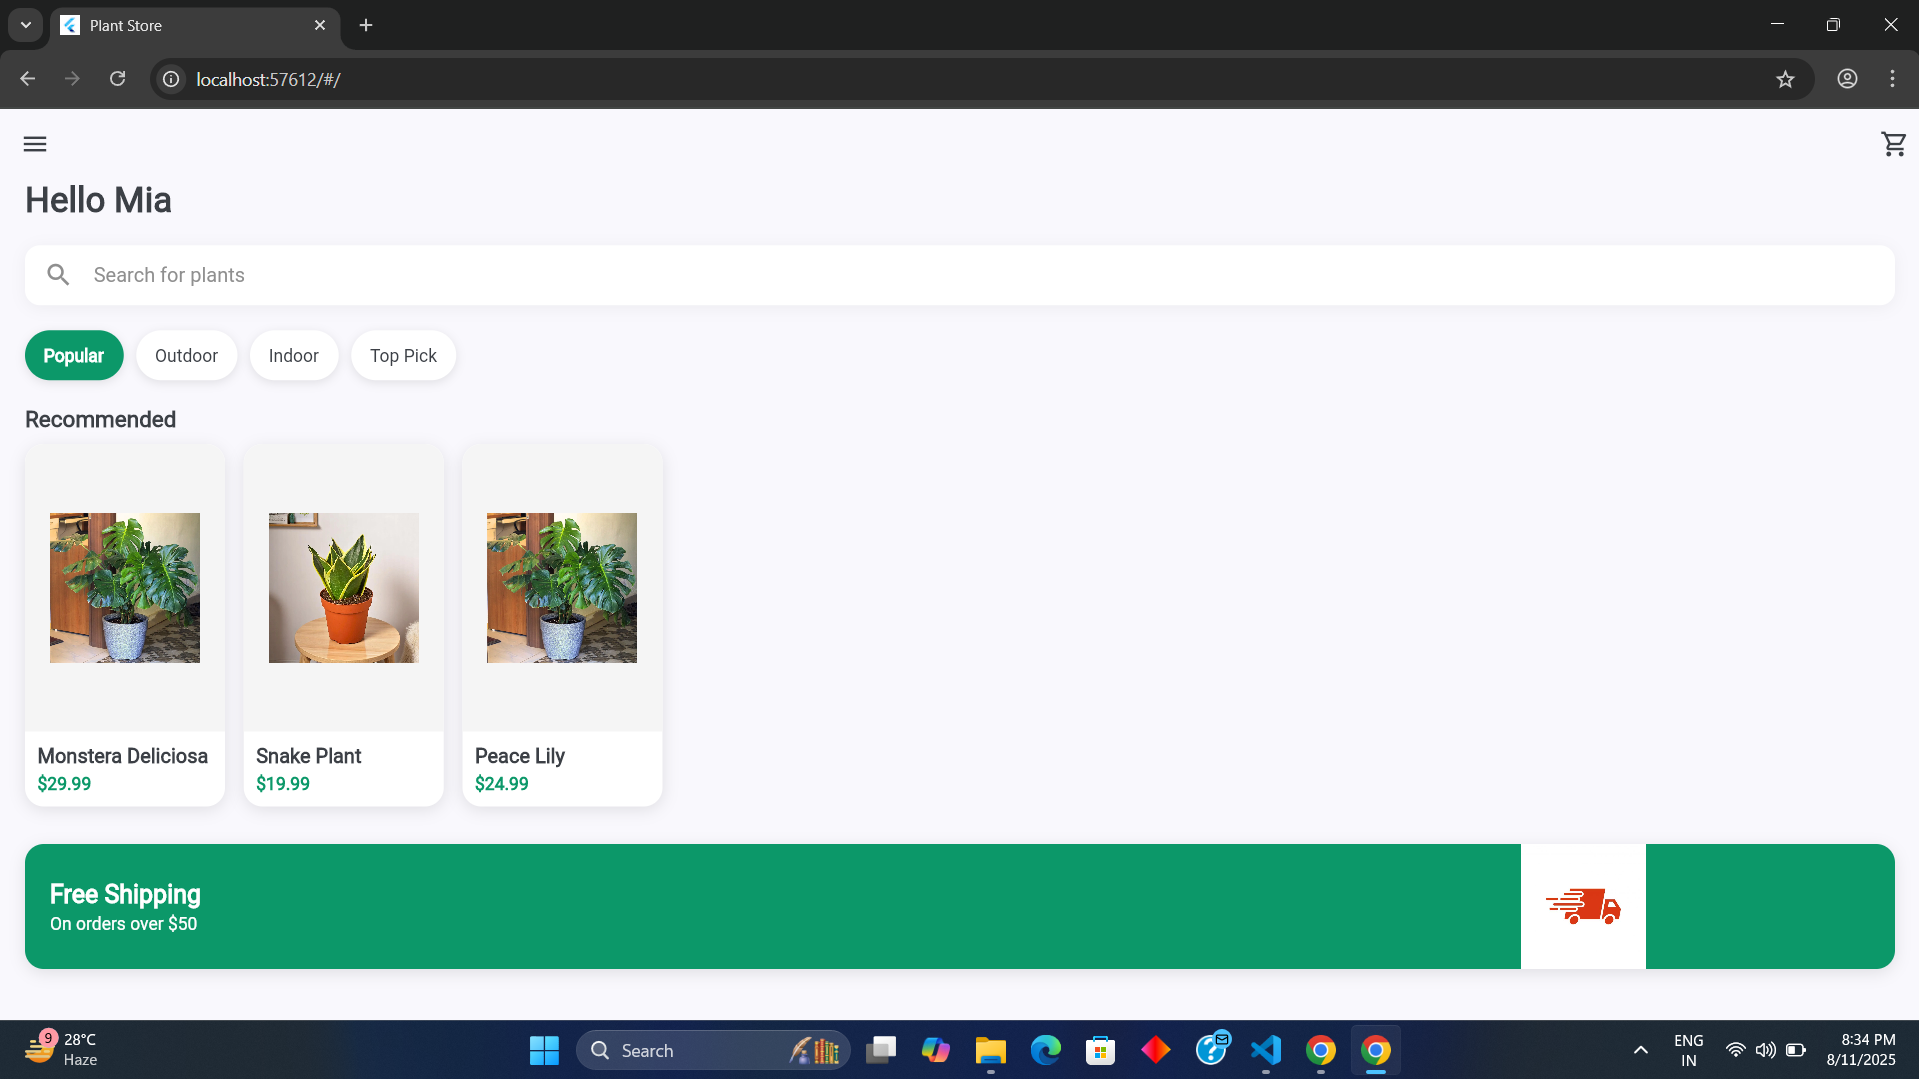
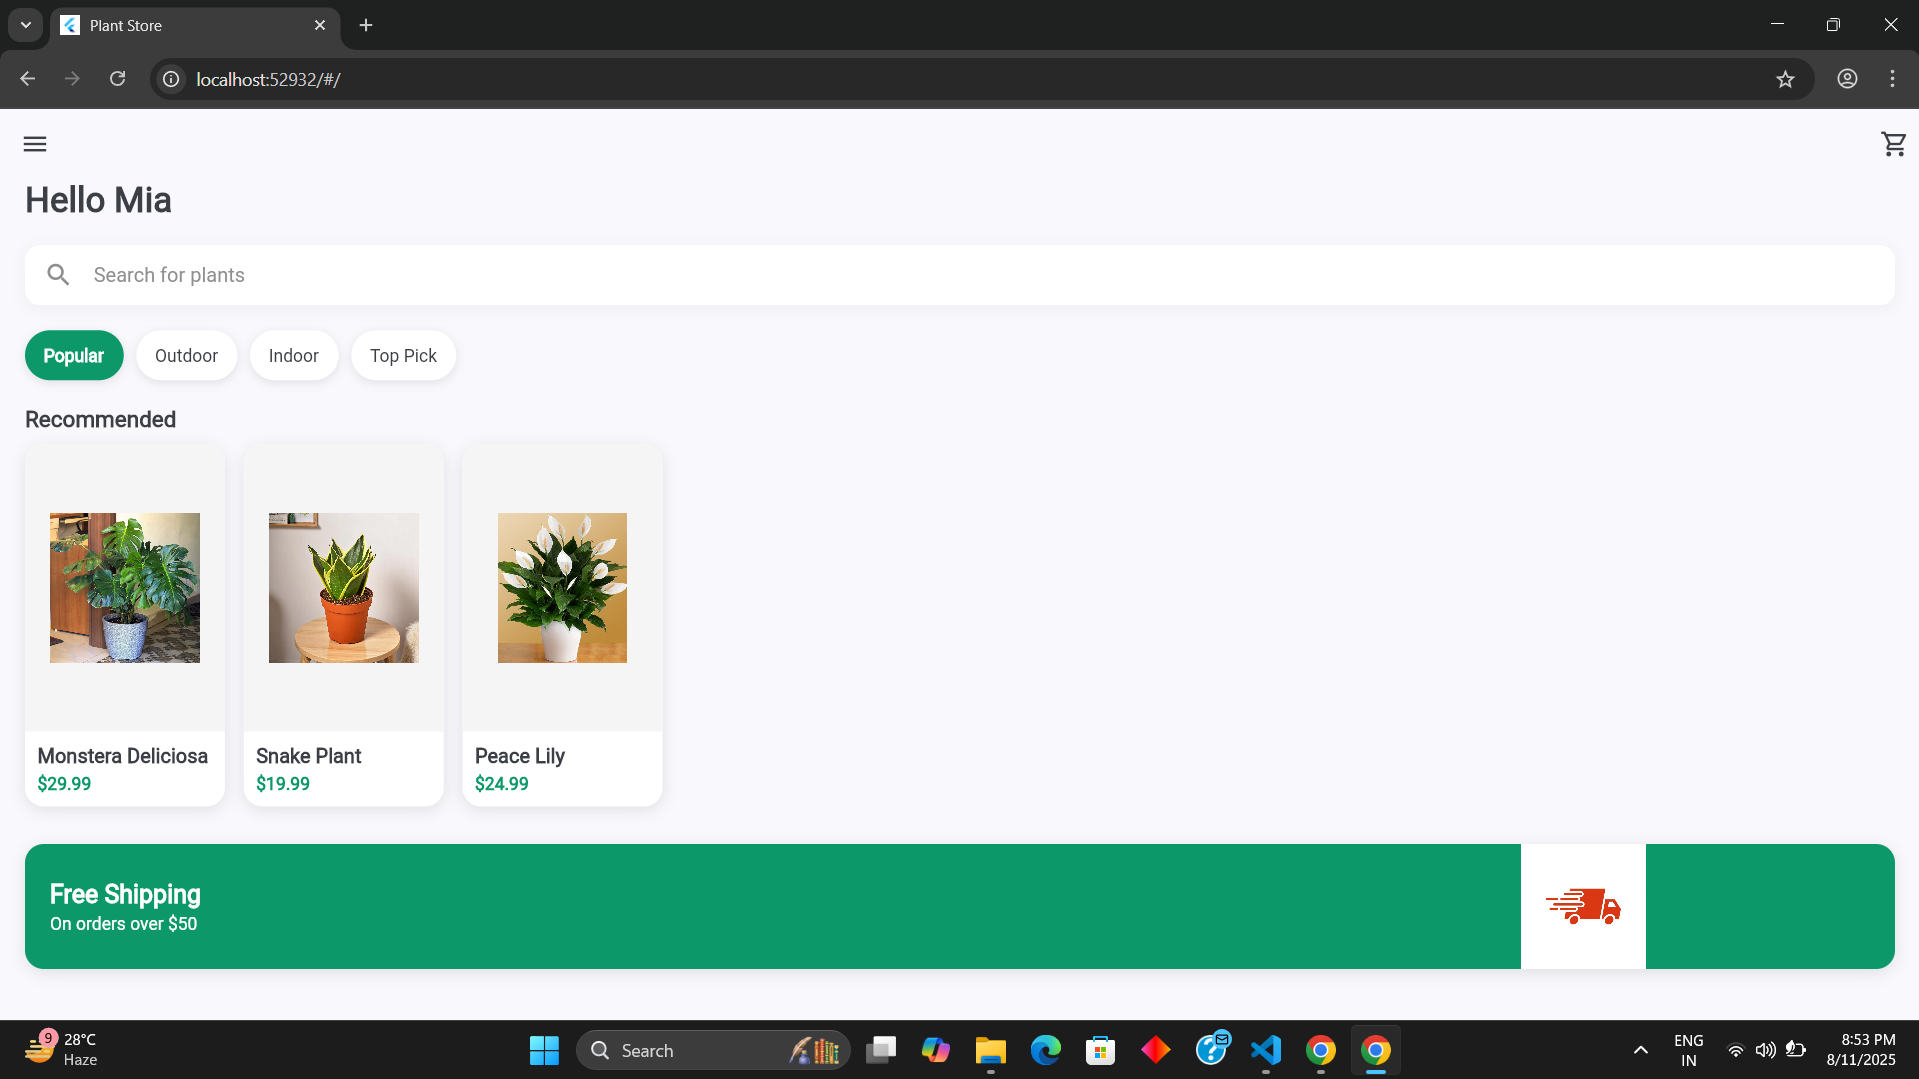
Updated project with latest changes

Changed region(s): [[0.0, 0.9481, 1.0, 1.0], [0.246, 0.4588, 0.3382, 0.6117]]

diff --git a/lib/models/plant.dart b/lib/models/plant.dart
@@ -51,7 +51,7 @@ class Plant {
       name: 'Peace Lily',
       category: 'Indoor',
       price: 24.99,
-      image: 'assets/images/plant1.png',
+      image: 'assets/images/plant3.png',
       description: 'The Peace Lily is an easy-care houseplant that brings elegance and harmony to any space with its glossy leaves and white flowers.',
       light: 5,
       water: 6,
